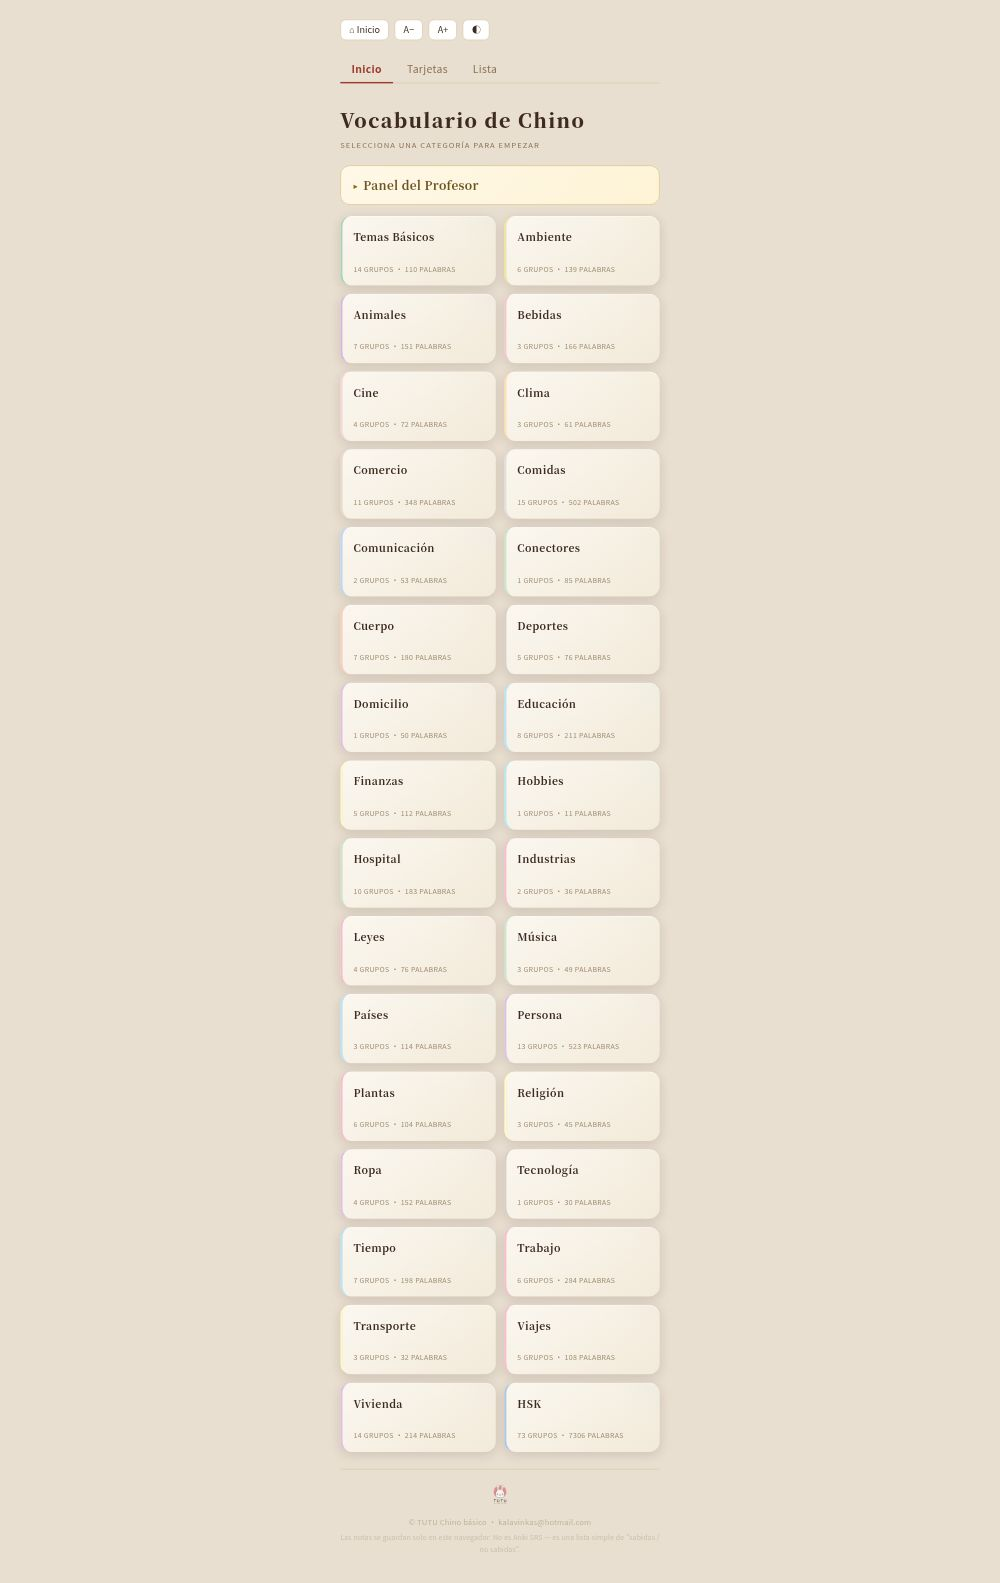
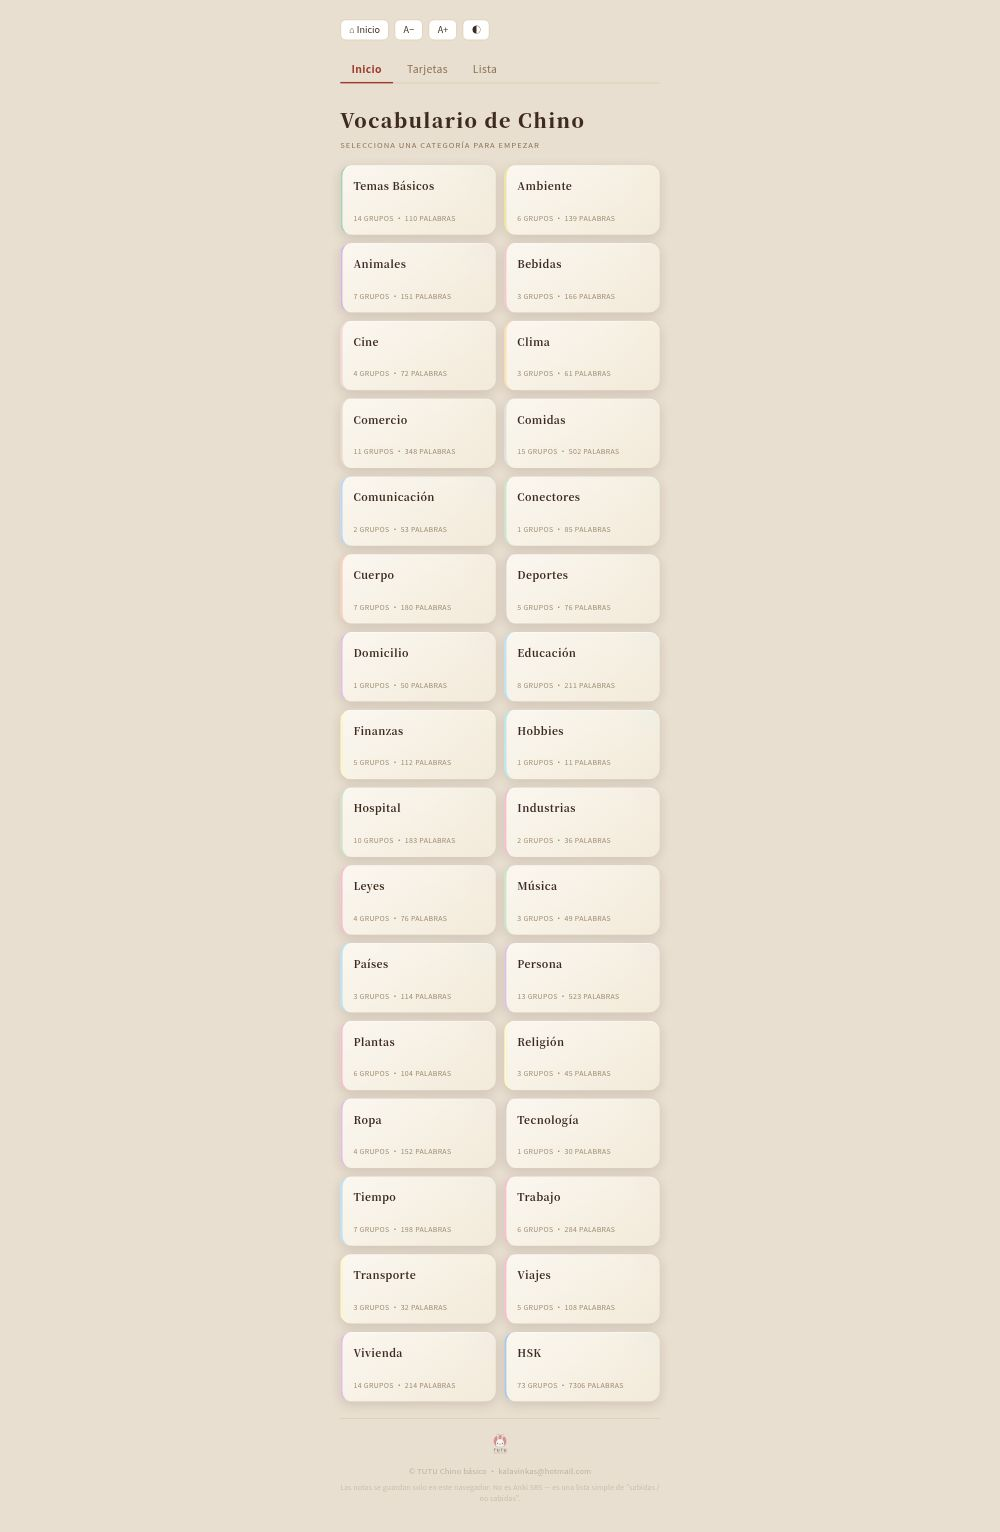
feat(hanzi): student total list only shows granted chars + search box; guard double-filter

Changed region(s): [[0.341, 0.0307, 0.651, 0.9204]]

diff --git a/original/hanzi.html b/original/hanzi.html
@@ -712,6 +712,9 @@
         <option value="6">HSK 6</option>
       </select>
     </div>
+    <div class="filter-row">
+      <input id="charSearch" class="search-input" type="search" placeholder="🔍 Buscar carácter / pinyin / español" style="flex:1;min-width:0;">
+    </div>
     <div id="totalList"></div>
     <div class="pagination" id="pagination" style="display:none;justify-content:center;align-items:center;gap:10px;padding:16px 0;flex-wrap:wrap;">
       <button class="top-btn" id="prevPageBtn">← Ant.</button>
@@ -859,7 +862,7 @@
 <script>
 /* ================= 字庫（可持續追加） ================= */
 let charList = [];
-Promise.all(["hanzi-data-1.json","hanzi-data-2.json","hanzi-data-3.json"].map(f=>fetch(f).then(r=>r.json()))).then(d=>{charList=d[0].concat(d[1]).concat(d[2]);setupTeacherFilterUI();renderBatchChecks();renderCard();if(window.applyHanziGrant && window.__hanziGrant !== null) window.applyHanziGrant(window.__hanziGrant);if(window.__pendingHanziGrant){restoreHanziGrant(window.__pendingHanziGrant);window.__pendingHanziGrant=null;}if(typeof updateExportStat==="function")updateExportStat();});;
+Promise.all(["hanzi-data-1.json","hanzi-data-2.json","hanzi-data-3.json"].map(f=>fetch(f).then(r=>r.json()))).then(d=>{window.__fullCharList = d[0].concat(d[1]).concat(d[2]); charList = window.__fullCharList.slice();setupTeacherFilterUI();renderBatchChecks();renderCard();if(window.applyHanziGrant && window.__hanziGrant !== null) window.applyHanziGrant(window.__hanziGrant);if(window.__pendingHanziGrant){restoreHanziGrant(window.__pendingHanziGrant);window.__pendingHanziGrant=null;}if(typeof updateExportStat==="function")updateExportStat();});;
 
 /* ================= 語法庫（可持續追加） ================= */
 const grammarList = [{"id": "G-01", "level": 1, "title": "和 / 跟", "sub": "preposición / conjunción — con / y", "structure": "A + 和/跟 + B + 動作（做某事）", "usageCn": "「和」有兩個用法：① 連詞 = y（連接兩個名詞）；② 介詞 = con（和某人一起做）。「跟」= con，口語更常用，帶「跟著、伴隨」的意味。", "usageEs": "«和» tiene dos usos: ① conjunción = y (une dos sustantivos); ② preposición = con (hacer algo junto con alguien). «跟» también significa con, más usado en el habla oral, con el matiz de «acompañar».", "examples": [{"py": "Wǒ gēn tā jiǎnghuà.", "zh": "我跟他講話。", "es": "Yo hablo con él."}, {"py": "Nǐ hé wǒ shì péngyou.", "zh": "你和我（跟）是朋友。", "es": "Tú y yo somos amigos."}, {"py": "Tā hé wǒ yīqǐ xuéxí.", "zh": "她和我一起學習。", "es": "Ella estudia conmigo."}], "notes": "學生易錯：把「和」的 y 用法與 con 用法混淆。記住：連接兩個名詞時用 y；表示「和某人一起做」時用 con（和/跟都行）。口語中「跟」更自然。", "notesEs": "Error común: confundir «y» con «con». Regla: para unir dos sustantivos usa y; para «hacer algo con alguien» usa con (和 o 跟). En el habla oral, 跟 suena más natural."}, {"id": "G-02", "level": 1, "title": "把", "sub": "partícula — objeto antepuesto (construcción 把)", "structure": "S + 把 + O + V + 補語（結果）", "usageCn": "「把」把受詞提前，強調「對這個東西做了什麼」。動詞後面必須帶結果（關了、給我、寫完），不能單獨用。西語沒有直接對應，類似把賓語提前的強調結構。", "usageEs": "«把» adelanta el objeto para enfatizar qué se hace con él. El verbo debe llevar un resultado (cerrar, dar, terminar). En español no hay equivalente directo: es como enfatizar el objeto antes del verbo.", "examples": [{"py": "Wǒ bǎ mén guān le.", "zh": "我把門關了。", "es": "Cerré la puerta."}, {"py": "Qǐng bǎ shū gěi wǒ.", "zh": "請把書給我。", "es": "Por favor, dame el libro."}, {"py": "Tā bǎ fàn chī wán le.", "zh": "他把飯吃完了。", "es": "Terminó de comer la comida."}], "notes": "不是所有句子都能用把。動詞必須帶結果或方向：不能說「我把書看」，要說「我把書看完了」。", "notesEs": "No todas las oraciones admiten 把. El verbo debe llevar un resultado o dirección: no se dice «我把書看», sino «我把書看完了»."}, {"id": "G-03", "level": 1, "title": "被", "sub": "partícula — voz pasiva", "structure": "S + 被 +（施事者）+ V", "usageCn": "「被」表示被動：主語是動作的承受者。西語對應 voz pasiva 或 se + verbo。口語中常用「讓、給」代替被。", "usageEs": "«被» marca la voz pasiva: el sujeto recibe la acción. Corresponde a la voz pasiva del español. En el habla oral se usa a menudo 讓 o 給 en lugar de 被.", "examples": [{"py": "Wǒ bèi tā mà le.", "zh": "我被他罵了。", "es": "Me regañó él. / Fui regañado por él."}, {"py": "Shū bèi ná zǒu le.", "zh": "書被拿走了。", "es": "El libro fue llevado."}], "notes": "被動句常用於「不如意」的事（被打、被罵、被偷）。好消息一般用主動句：「我通過考試」，不說「我被考試通過」。", "notesEs": "La pasiva con 被 suele usarse para cosas negativas (ser golpeado, regañado, robado). Las buenas noticias van en voz activa."}, {"id": "G-04", "level": 1, "title": "了", "sub": "partícula — aspecto completivo (le)", "structure": "V + 了（動作完成）｜句子 + 了（情況變化）", "usageCn": "「了」有兩個位置：① 動詞後：動作已完成（我吃了飯）。② 句尾：情況發生變化（下雨了）。初學者先記動詞後的「了」。", "usageEs": "«了» tiene dos posiciones: ① después del verbo: acción completada; ② al final de la oración: cambio de estado. Primero aprende la del verbo.", "examples": [{"py": "Wǒ chī le fàn.", "zh": "我吃了飯。", "es": "Comí (la comida)."}, {"py": "Xià yǔ le.", "zh": "下雨了。", "es": "Está lloviendo (ha empezado a llover)."}], "notes": "否定句用「沒（有）+ V」，不加了：我沒吃飯。不能說「我沒吃了飯」。", "notesEs": "La negación usa 沒(有) + verbo, sin 了: 我沒吃飯. No digas 我沒吃了飯."}, {"id": "G-05", "level": 1, "title": "着", "sub": "partícula — aspecto durativo (zhe)", "structure": "V + 着（動作或狀態持續）", "usageCn": "「着」表示動作或狀態正在持續：他看著書（正在讀）；門開著（狀態持續）。「着」= 進行/持續，「了」= 完成，兩者相反。", "usageEs": "«着» indica que la acción o el estado continúa: 他看著書 (está leyendo); 門開著 (la puerta está abierta). 着 es durativo; 了 es completivo.", "examples": [{"py": "Tā kàn zhe shū.", "zh": "他看著書。", "es": "Está leyendo (con el libro abierto)."}, {"py": "Mén kāi zhe.", "zh": "門開著。", "es": "La puerta está abierta."}], "notes": "口語北方常說「著」，南方口語較少用，但書面語和普通話都要用。", "notesEs": "En el norte oral se usa mucho 着; en el sur oral menos, pero en la lengua escrita y el mandarín estándar siempre se usa."}, {"id": "G-06", "level": 2, "title": "的 / 地 / 得", "sub": "tres «de» — atributivo / adverbial / complemento", "structure": "的：修飾名詞｜地：修飾動詞｜得：動詞後的補語", "usageCn": "三個 de 發音相同、寫法不同：① 的：修飾名詞（我的書、美麗的花）。② 地：修飾動詞（慢慢地走）。③ 得：動詞後的補語，說明程度或結果（跑得快、說得好）。", "usageEs": "Los tres «de» suenan igual pero se escriben distinto: 的 modifica sustantivos, 地 modifica verbos, 得 introduce un complemento de grado o resultado después del verbo.", "examples": [{"py": "Wǒ de shū.", "zh": "我的書。", "es": "Mi libro."}, {"py": "Mànman de zǒu.", "zh": "慢慢地走。", "es": "Camina lentamente."}, {"py": "Tā pǎo de hěn kuài.", "zh": "他跑得很快。", "es": "Corre muy rápido."}], "notes": "初學最常錯：該用「的」寫成「地」、該用「得」寫成「的」。口語聽不出差別，寫作一定要分。", "notesEs": "Error típico: confundir los tres de al escribir. Al hablar no se notan, pero al escribir hay que distinguirlos."}, {"id": "G-07", "level": 2, "title": "吗 / 呢", "sub": "partículas interrogativas", "structure": "陳述句 + 嗎？（是非問）｜…… + 呢？（追問）", "usageCn": "「嗎」放在句尾，把陳述句變成是非問句（sí/no）。「呢」用於追問、反問：你呢？（¿y tú?）「嗎」只能用於是非問句，特指問不用嗎。", "usageEs": "«嗎» al final convierte la oración en pregunta de sí/no. «呢» se usa para devolver la pregunta o preguntar por algo más: 你呢？ = ¿y tú? 嗎 solo sirve para preguntas de sí/no.", "examples": [{"py": "Nǐ shì lǎoshī ma?", "zh": "你是老師嗎？", "es": "¿Eres profesor?"}, {"py": "Wǒ qù, nǐ ne?", "zh": "我去，你呢？", "es": "Yo voy, ¿y tú?"}], "notes": "特指問（什麼、哪裡、誰）不用「嗎」：你是誰？不是「你是誰嗎」。", "notesEs": "Las preguntas con palabra interrogativa (qué, dónde, quién) no usan 吗: 你是誰？, nunca 你是誰嗎."}, {"id": "G-08", "level": 1, "title": "量詞卡", "sub": "clasificadores — 26 個常用量詞", "items": [{"c": "個", "py": "gè", "use": "personas y cosas en general", "ex": "一個人、三個蘋果"}, {"c": "只", "py": "zhī", "use": "animales pequeños", "ex": "一隻貓、兩隻鳥"}, {"c": "條", "py": "tiáo", "use": "cosas largas (pez, camino, pantalón)", "ex": "一條魚、一條路"}, {"c": "張", "py": "zhāng", "use": "cosas planas (papel, mesa, cama)", "ex": "一張紙、一張桌子"}, {"c": "本", "py": "běn", "use": "libros, cuadernos", "ex": "一本書"}, {"c": "杯", "py": "bēi", "use": "bebidas en vaso/taza", "ex": "一杯茶"}, {"c": "雙", "py": "shuāng", "use": "pares (zapatos, guantes)", "ex": "一雙鞋"}, {"c": "把", "py": "bǎ", "use": "herramientas, sillas, llaves", "ex": "一把刀、一把椅子"}, {"c": "位", "py": "wèi", "use": "personas (cortés)", "ex": "一位老師"}, {"c": "件", "py": "jiàn", "use": "ropa, asuntos", "ex": "一件衣服、一件事"}, {"c": "輛", "py": "liàng", "use": "vehículos (coche, autobús)", "ex": "一輛車"}, {"c": "台", "py": "tái", "use": "máquinas, aparatos", "ex": "一台電腦"}, {"c": "朵", "py": "duǒ", "use": "flores, nubes", "ex": "一朵花"}, {"c": "顆", "py": "kē", "use": "cosas pequeñas y redondas", "ex": "一顆糖、一顆星"}, {"c": "根", "py": "gēn", "use": "cosas largas y delgadas", "ex": "一根筷子"}, {"c": "塊", "py": "kuài", "use": "cosas en bloque (torta, piedra)", "ex": "一塊蛋糕"}, {"c": "片", "py": "piàn", "use": "cosas finas y planas (pan, pastilla)", "ex": "一片麵包"}, {"c": "層", "py": "céng", "use": "pisos, capas", "ex": "一層樓"}, {"c": "間", "py": "jiān", "use": "habitaciones", "ex": "一間房"}, {"c": "封", "py": "fēng", "use": "cartas, correos", "ex": "一封信"}, {"c": "首", "py": "shǒu", "use": "canciones, poemas", "ex": "一首歌"}, {"c": "支", "py": "zhī", "use": "bolígrafos, objetos alargados", "ex": "一支筆"}, {"c": "瓶", "py": "píng", "use": "botellas, envases", "ex": "一瓶水"}, {"c": "碗", "py": "wǎn", "use": "cuencos (arroz, sopa)", "ex": "一碗飯"}, {"c": "串", "py": "chuàn", "use": "cosas en fila (uvas, llaves)", "ex": "一串葡萄"}, {"c": "群", "py": "qún", "use": "grupos (personas, animales)", "ex": "一群人"}], "structure": "數詞 + 量詞 + 名詞（兩個人、三本書）", "usageCn": "中文名詞不能直接數數，必須用量詞。常用：個（人、一般事物）、只（動物）、條（長形物：魚、路）、張（平面物：紙、桌子）、本（書）、杯（飲料）、雙（成對物：鞋、手套）、把（工具：刀、椅子）、位（人，禮貌）、件（衣服、事情）。", "usageEs": "En chino los sustantivos no se cuentan sin un clasificador. Comunes: 個 personas/cosas en general; 只 animales; 條 cosas largas (pez, camino); 張 cosas planas (papel, mesa); 本 libros; 杯 bebidas; 雙 pares (zapatos, guantes); 把 herramientas (cuchillo, silla); 位 personas (cortés); 件 ropa/asuntos.", "examples": [{"py": "Liǎng gè rén.", "zh": "兩個人。", "es": "Dos personas."}, {"py": "Yī zhī māo.", "zh": "一隻貓。", "es": "Un gato."}, {"py": "Sān běn shū.", "zh": "三本書。", "es": "Tres libros."}, {"py": "Zhè bēi chá hěn hǎo.", "zh": "這杯茶很好。", "es": "Esta taza de té está muy buena."}], "notes": "量詞不能省略，也不能亂配。學生最常錯：把「個」用於一切（「一個貓」）。動物、長形物、平面物各有專用量詞。", "notesEs": "El clasificador es obligatorio y no se combina al azar. Error típico: usar 個 para todo («un gato» no es 一個貓). Animales, objetos largos y planos tienen su propio clasificador."}];
@@ -872,6 +875,8 @@ function saveStore() { localStorage.setItem("hanziCardStore", JSON.stringify(sto
 let currentIndex = 0;
 let hideLearned = false;
 let currentFilter = "all";
+let charSearch = "";
+let __fullCharList = null;
 let writer = null;
 let strokeInited = false;
 let currentView = "hanzi";
@@ -1036,7 +1041,7 @@ let currentPage = 1;
 function renderTotalList() {
   const box = document.getElementById("totalList");
   box.innerHTML = "";
-  const list = charList.filter(it => {
+  let list = charList.filter(it => {
     if (currentFilter === "lv1") return it.level === 1;
     if (currentFilter === "lv2") return it.level === 2;
     if (currentFilter === "lv3") return it.level === 3;
@@ -1044,6 +1049,15 @@ function renderTotalList() {
     if (currentFilter === "learned") return store.learned.includes(it.id);
     return true;
   }).filter(it => hskFilter === "all" || String(it.hsk) === hskFilter);
+  if (charSearch) {
+    const q = charSearch.toLowerCase();
+    list = list.filter(it =>
+      (it.char && it.char.includes(charSearch)) ||
+      (it.pinyin && it.pinyin.toLowerCase().includes(q)) ||
+      (it.es && it.es.toLowerCase().includes(q)) ||
+      (it.id && it.id.includes(charSearch))
+    );
+  }
 
   const totalPages = Math.max(1, Math.ceil(list.length / PAGE_SIZE));
   if (currentPage > totalPages) currentPage = totalPages;
@@ -1086,6 +1100,9 @@ function renderTotalList() {
     }
   }
 }
+
+const cs = document.getElementById("charSearch");
+if (cs) cs.addEventListener("input", (e) => { charSearch = e.target.value.trim(); currentPage = 1; renderTotalList(); });
 
 if (document.getElementById("prevPageBtn")) {
   document.getElementById("prevPageBtn").onclick = () => { if (currentPage > 1) { currentPage--; renderTotalList(); } };
@@ -1846,6 +1863,7 @@ function batchKeyOfL(it){
 }
 window.applyHanziGrant = function(grant){
   window.__hanziGrant = grant;
+  if(window.__fullCharList && window.__fullCharList.length) charList = window.__fullCharList.slice();
   if(charList.length === 0) return;
   const exportBtn = document.getElementById("exportViewBtn"); if(exportBtn) exportBtn.style.display = "none";
   if(!grant || !grant.batches || grant.batches.length === 0){

diff --git a/index.html b/index.html
@@ -213,7 +213,7 @@ const db = getFirestore(fb);
 
 let zlvl = 3;
 const ZOOMS = [0.85, 0.92, 1.0, 1.1, 1.2];
-const VER = "20261001j"; // 版本戳：三卡/筆記連結帶此值繞過 CDN 快取
+const VER = "20261001k"; // 版本戳：三卡/筆記連結帶此值繞過 CDN 快取
 window.zoom = d => {
   zlvl = Math.max(1, Math.min(5, zlvl + d));
   document.documentElement.style.zoom = ZOOMS[zlvl-1]; try{localStorage.setItem("tt-zoom", ZOOMS[zlvl-1]);}catch(e){};
